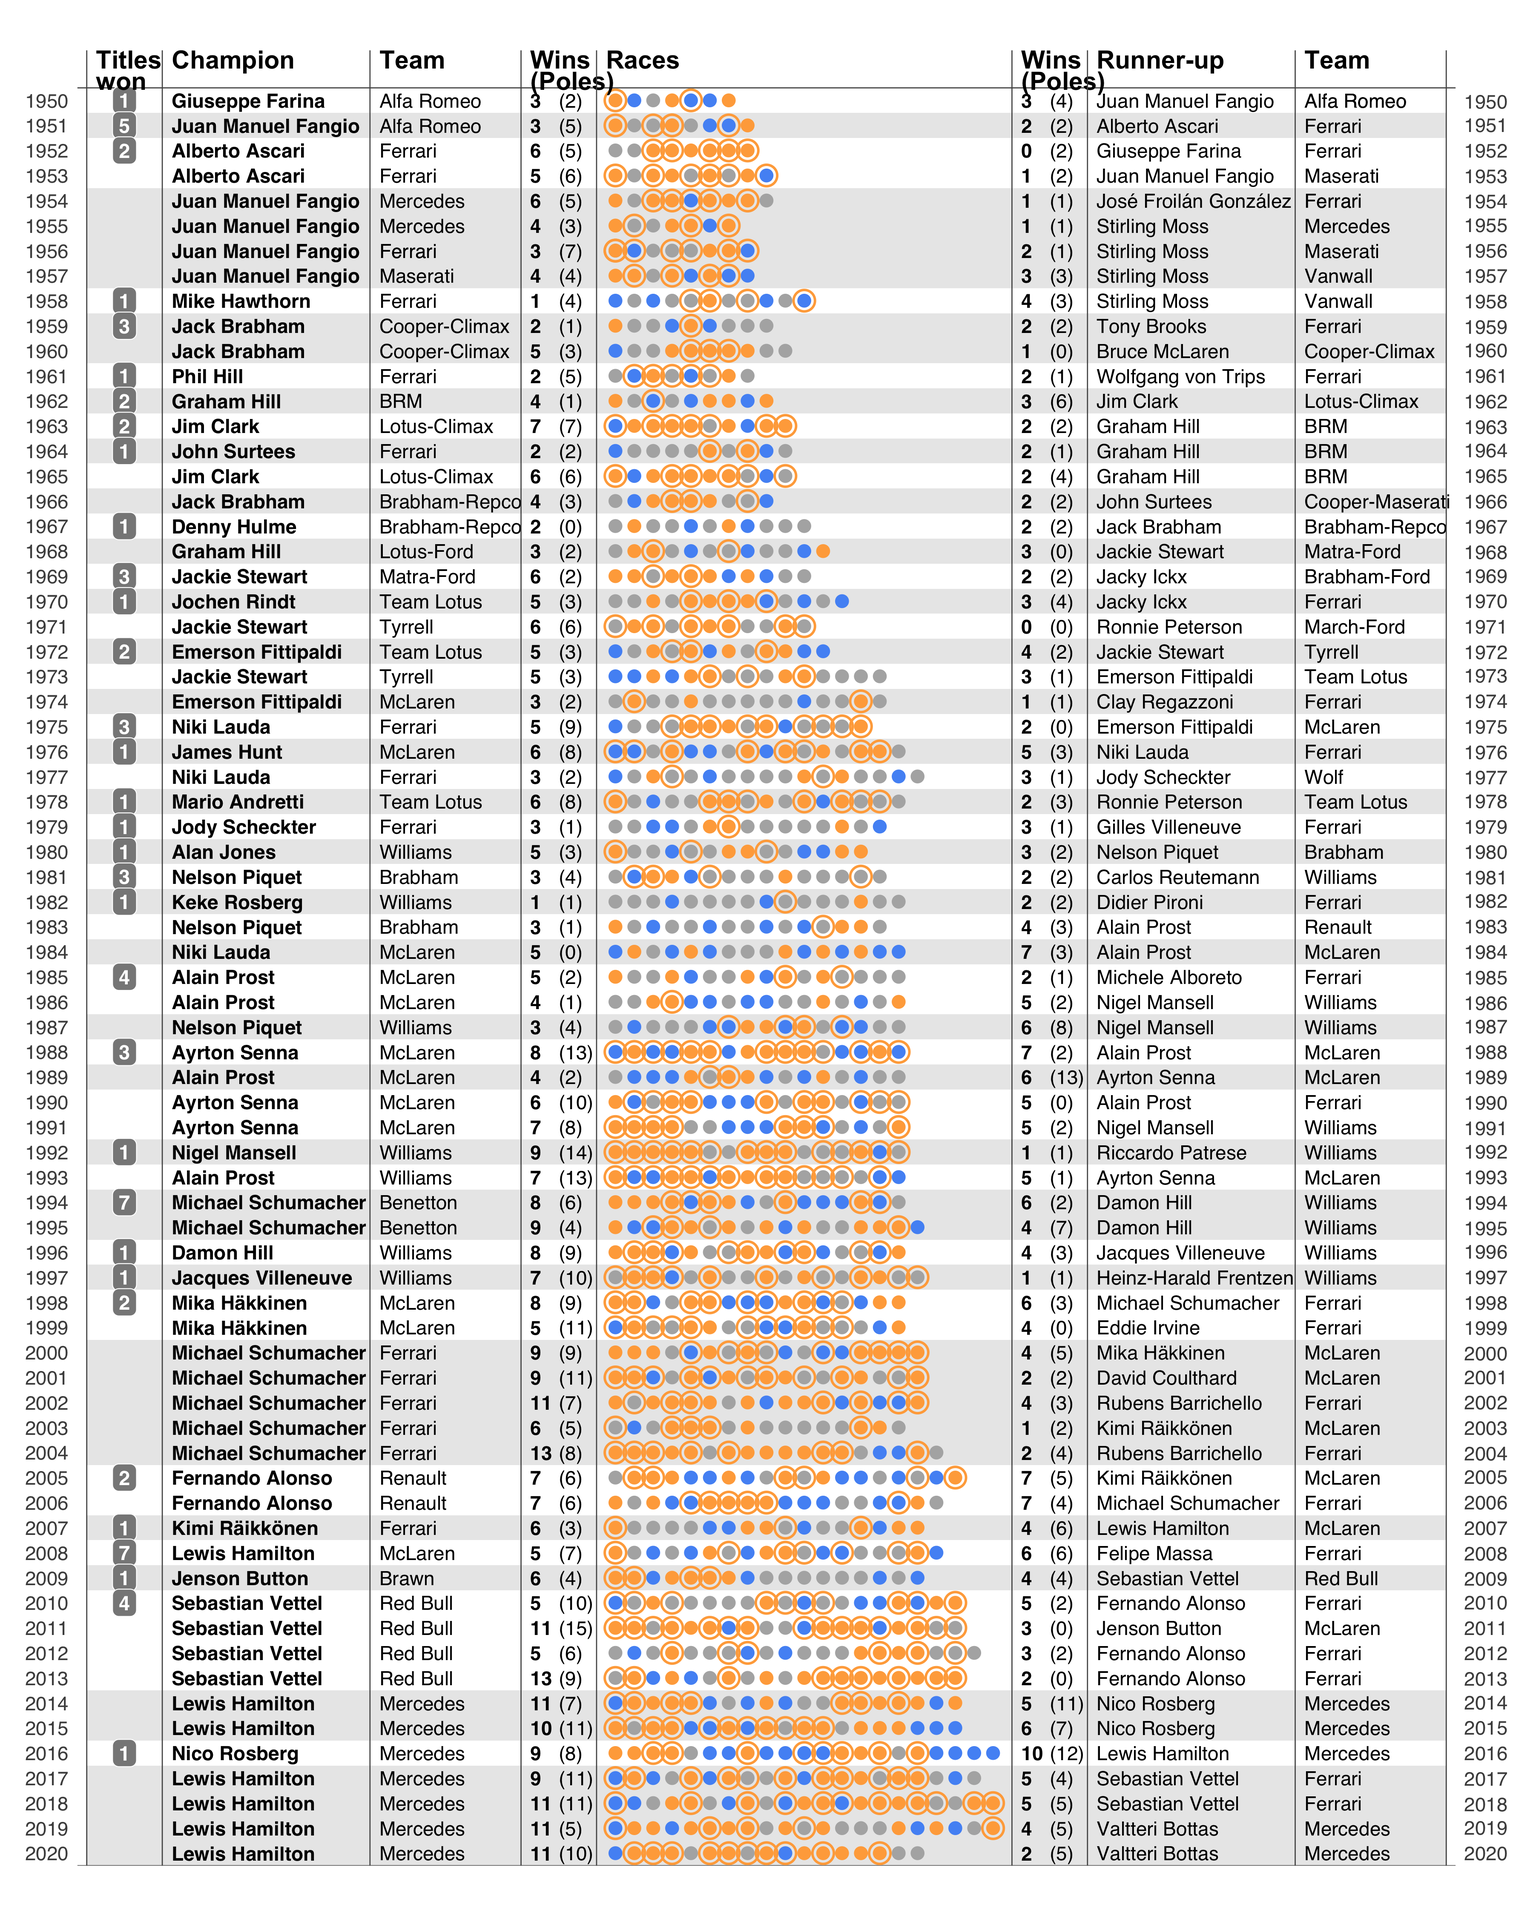
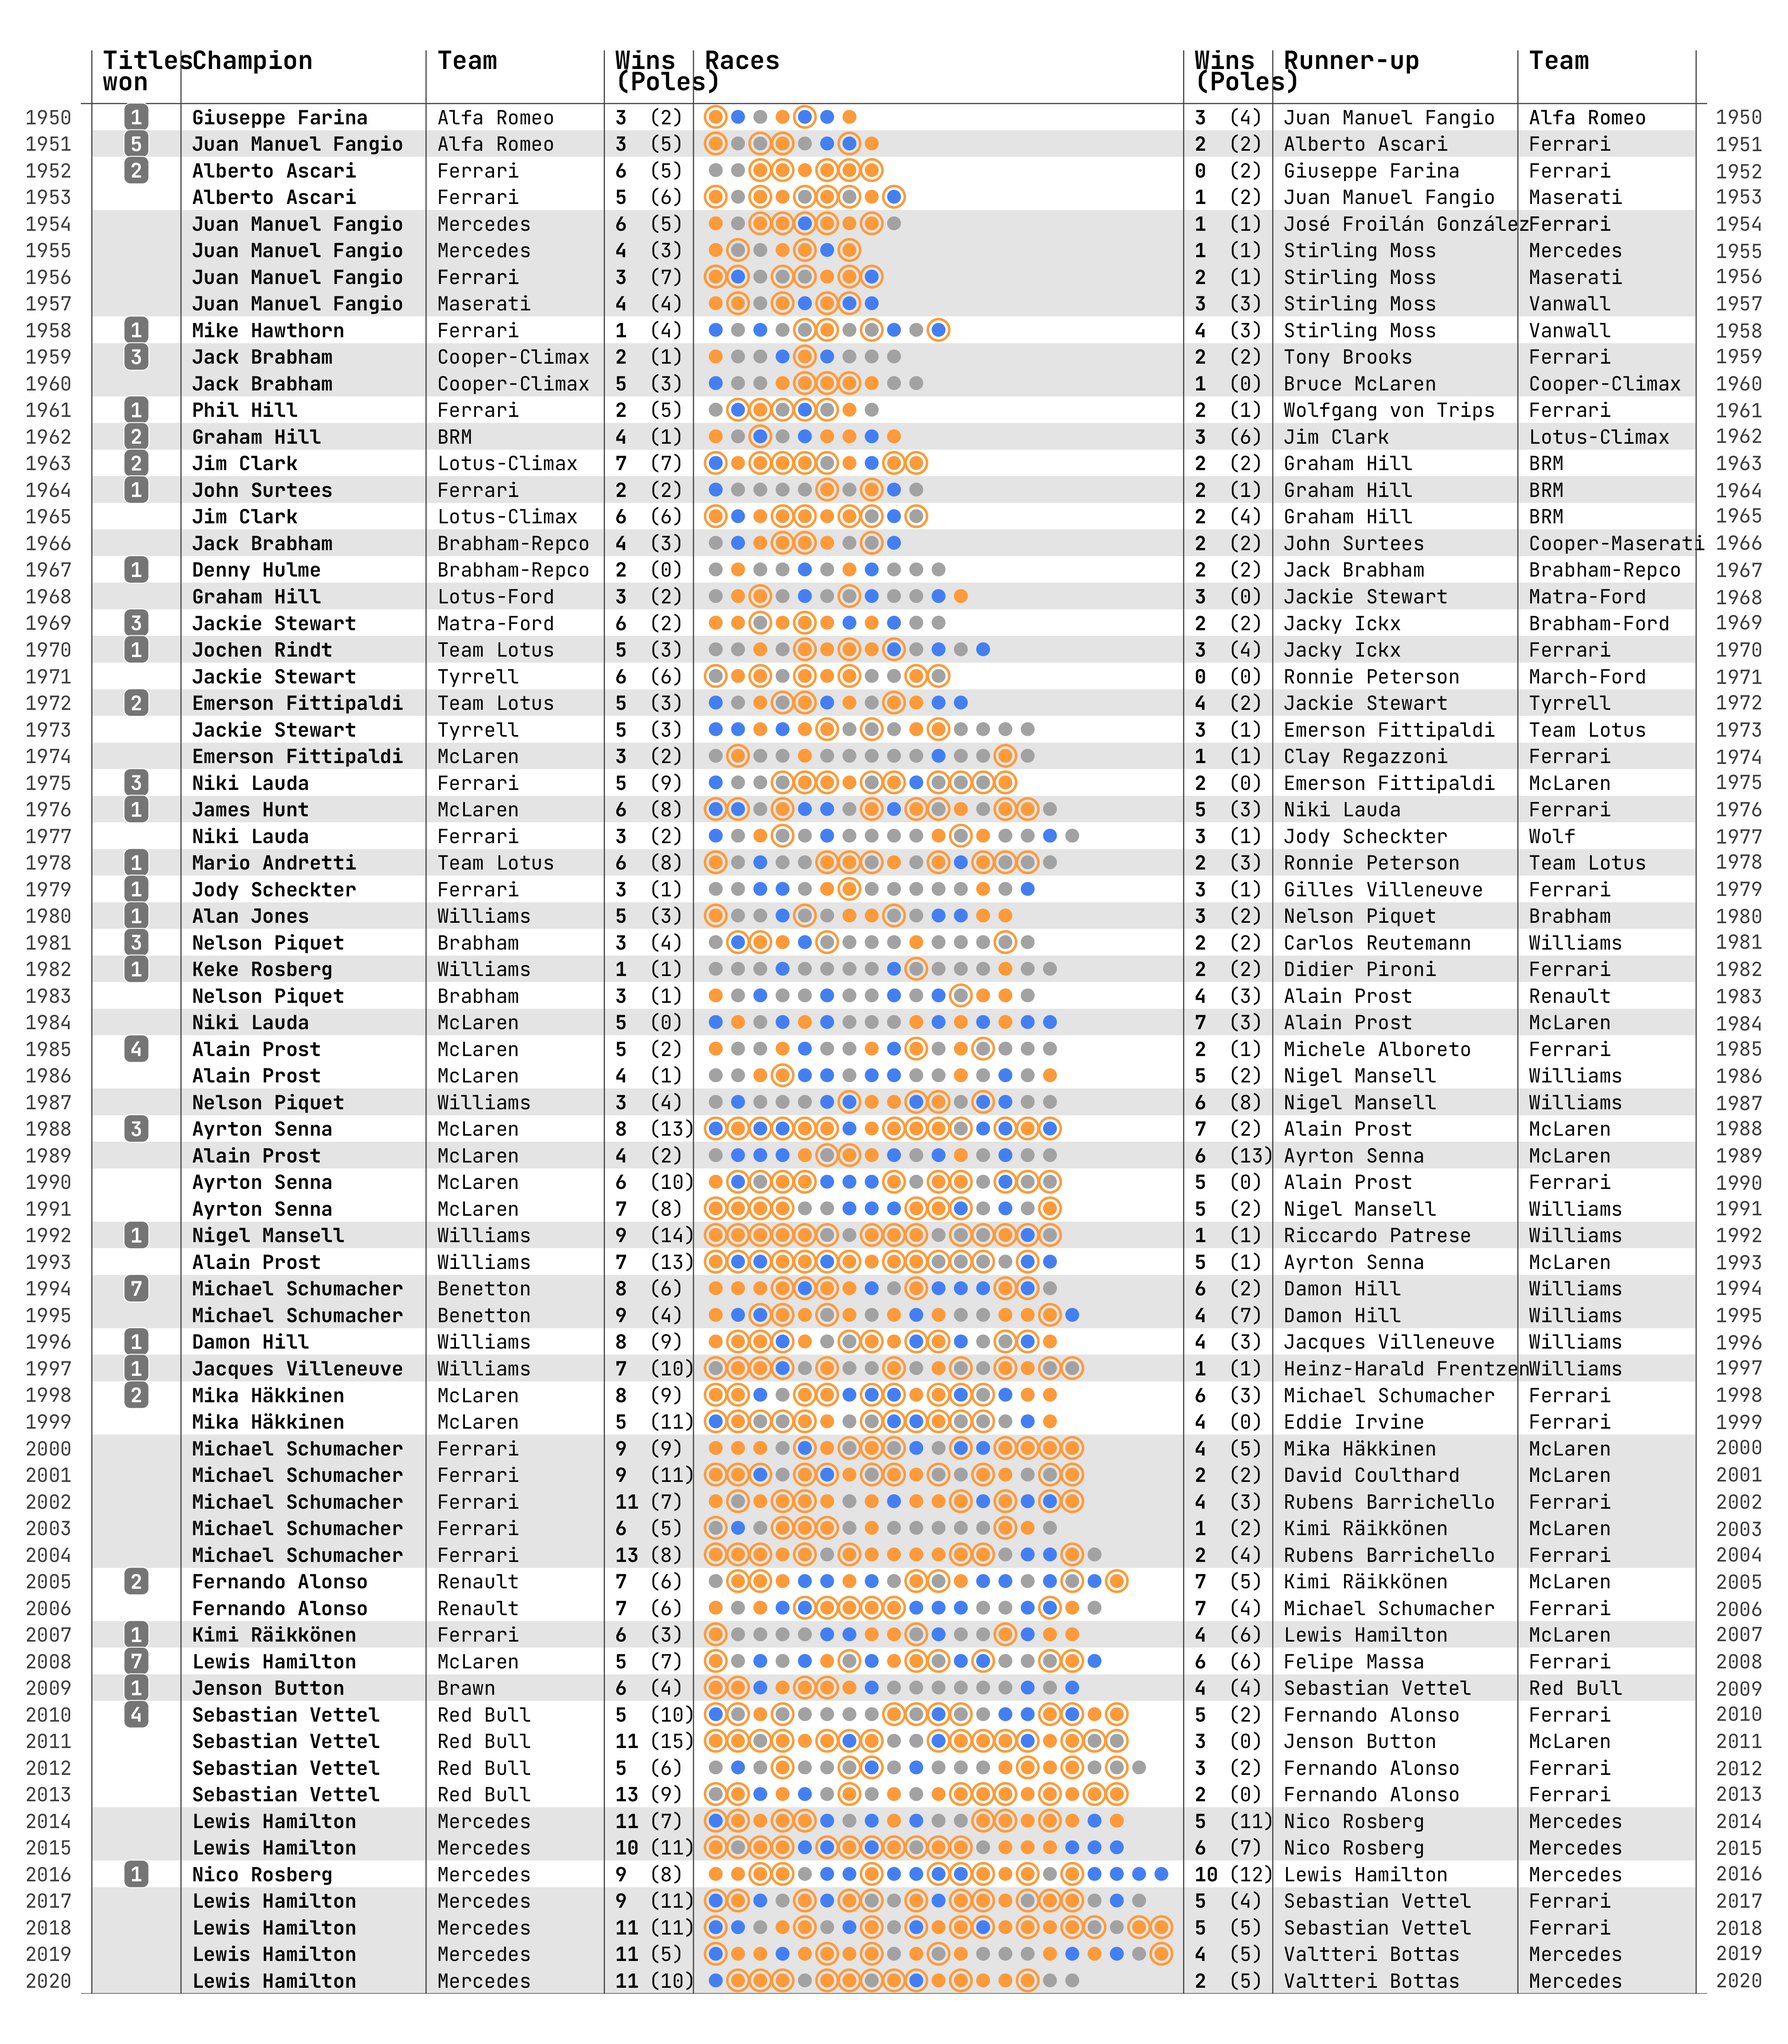
jetbrains

diff --git a/README.md b/README.md
@@ -15,7 +15,8 @@ Visualizations of Formula 1 data.
 
 - https://www.kaggle.com/rohanrao/formula-1-world-championship-1950-2020
 
-## Tools
+## Tools & Resources
 
 - R programming language
 - VSCode
+- Font: [JetBrains Mono](https://www.jetbrains.com/lp/mono/) (amazing!)
